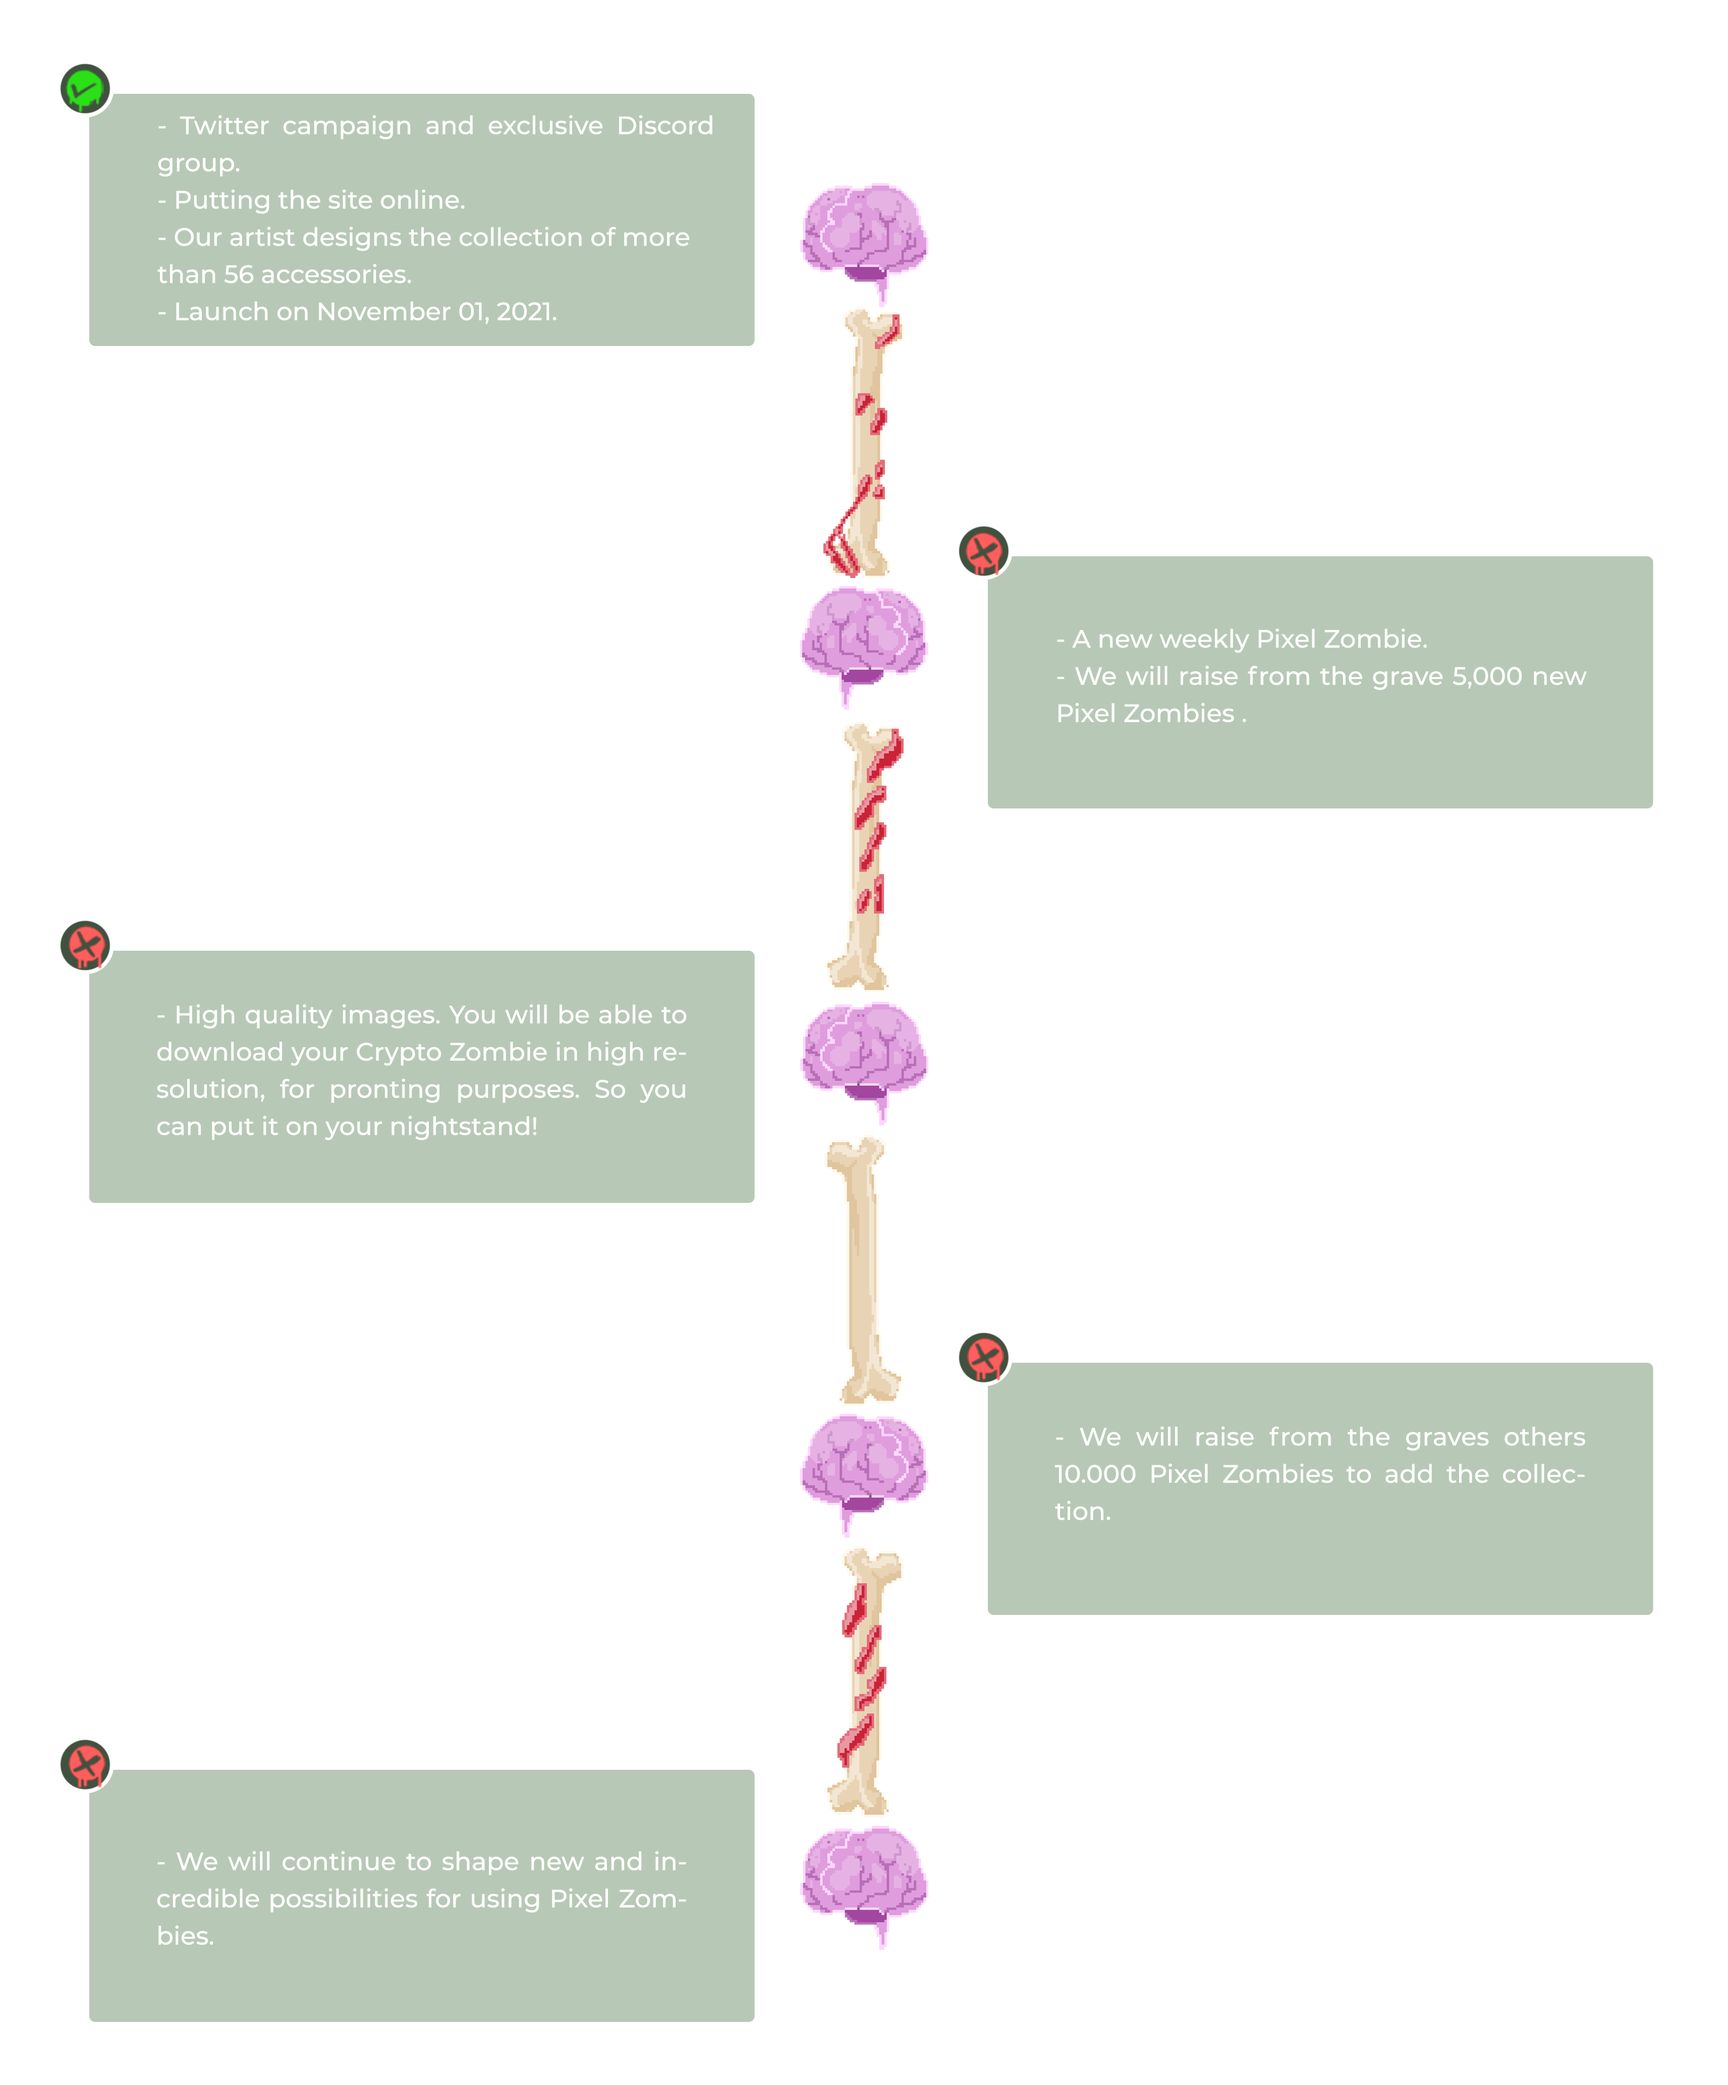
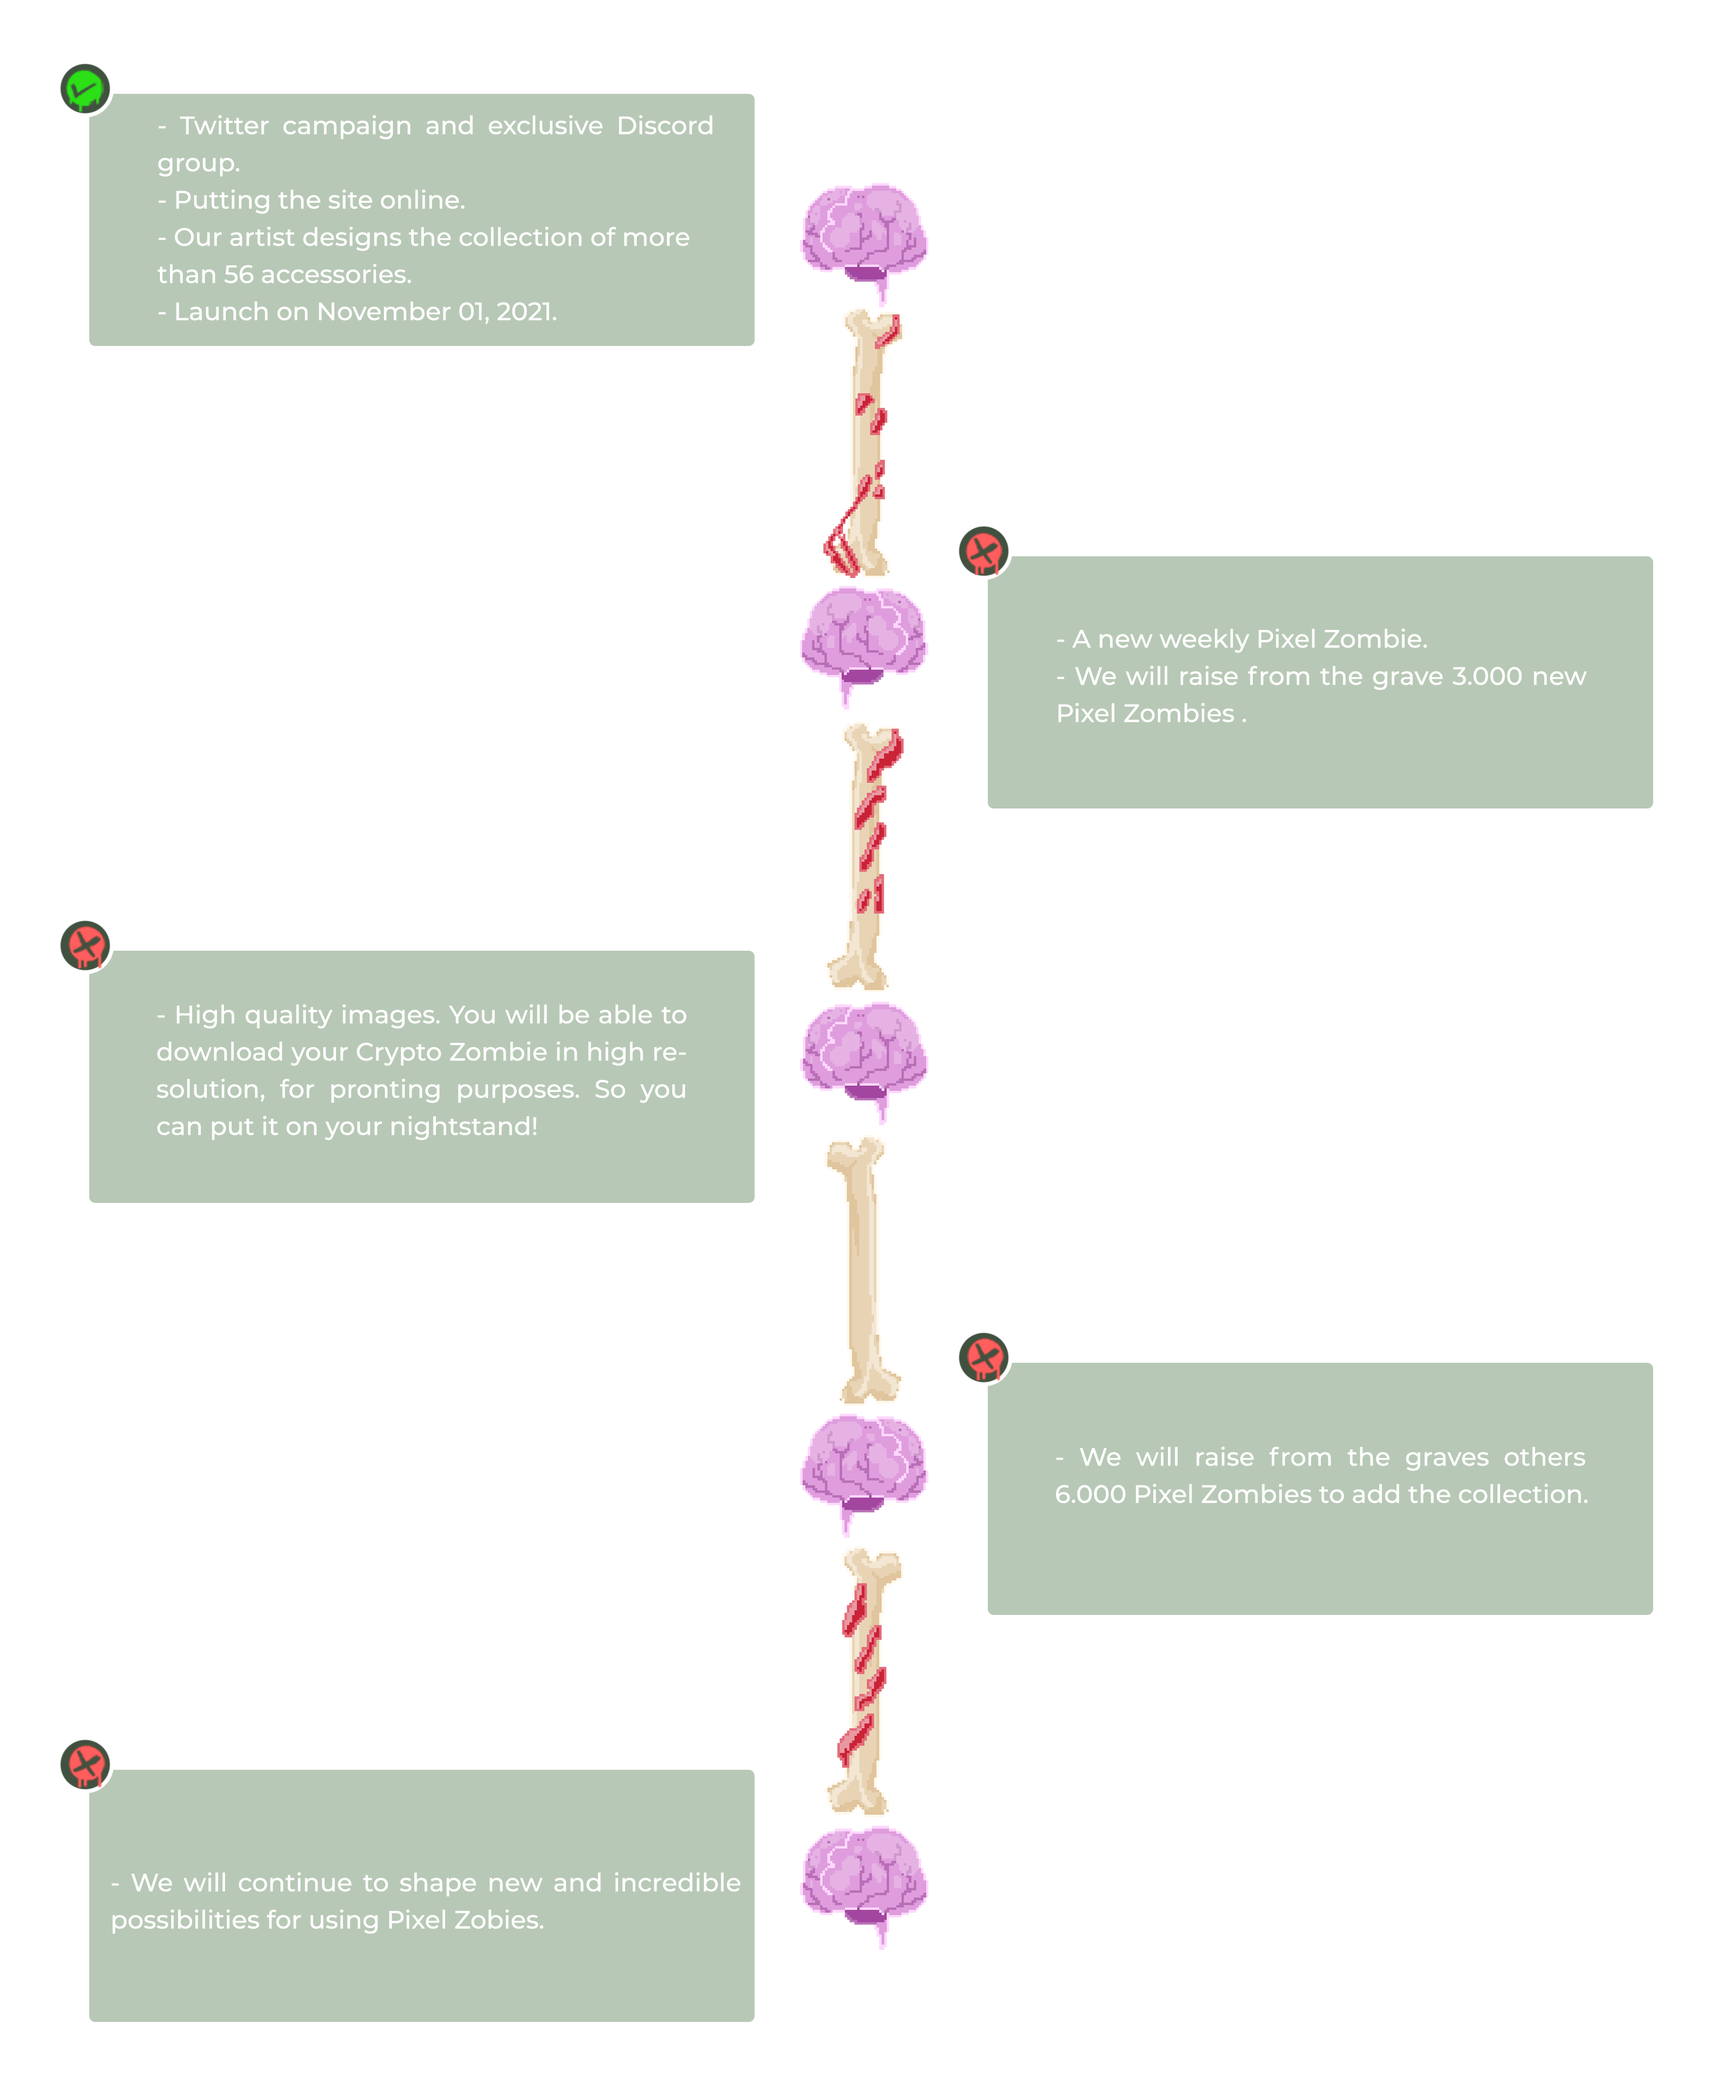
Perfeccionando número de salida

Changed region(s): [[0.0625, 0.8737, 0.4061, 0.9361], [0.6248, 0.6865, 0.9372, 0.7177]]

diff --git a/src/components/projectDefinition.js b/src/components/projectDefinition.js
@@ -13,7 +13,7 @@ export default function DefinitionFunction({ setSelected, setShowCounter }) {
       </button>
       <h2 className="h2-title-dafinition">Come and join the Horde!</h2>
       <p className="paragraph-style">
-        Welcome to Pixel Zombies. 500 awesome living dead, coexisting right now
+        Welcome to Pixel Zombies. 300 awesome living dead, coexisting right now
         on the Solana blockchain.
       </p>
       <h2 className="h2-title-dafinition">Horde details</h2>

diff --git a/src/App.css b/src/App.css
@@ -276,6 +276,7 @@ button {
     inset 0 0 1px rgba(255, 255, 255, 0.6);
 }
 .roadmap {
+  margin-left: 15%;
   height: 1300px;
 }
 
